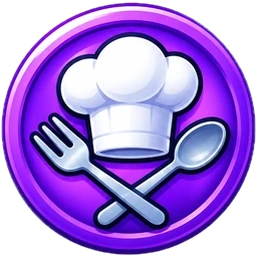
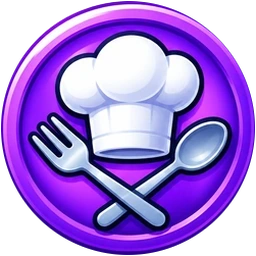
Badges : contour en cercle lisse, plus de bord haché ; badges non ronds remis d'origine (v167)
Claude-Session: https://claude.ai/code/session_015rMa72ZKTeXG5gb4Qifn48

Changed region(s): [[0.0, 0.0, 1.0, 1.0]]

diff --git a/js/app.js b/js/app.js
@@ -1,17 +1,17 @@
 // Y'a du peuple ? — logique de l'appli (carte, fiche, signalement, compte).
-import { api, DEMO } from './api.js?v=166';
+import { api, DEMO } from './api.js?v=167';
 import {
   MAP_STYLE_URL, DEFAULT_CENTER, DEFAULT_ZOOM, CONTACT_EMAIL, GOOGLE_CLIENT_ID,
   ROUTE, REFRESH_MS,
-} from './config.js?v=166';
+} from './config.js?v=167';
 import {
   LEVELS, LEVEL_INFO, WAIT_INFO, NO_INFO, levelInfo, describeStatus, mainStatus, brandShort,
   theoryLevelAt, parisNow, bestTimeToday, fmtHour, distanceM, fmtDistance, ago,
   levelFromPercent, gDay, dayHours, openDuringHour, bestTimeFromProfile, openState, hoursLines,
   estimateRoute, fmtDuration,
-} from './levels.js?v=166';
-import { airbnbize, addShieldImage } from './mapstyle.js?v=166';
-import { BRAND_PATHS } from './brands.js?v=166';
+} from './levels.js?v=167';
+import { airbnbize, addShieldImage } from './mapstyle.js?v=167';
+import { BRAND_PATHS } from './brands.js?v=167';
 
 // ---------------------------------------------------------------------------
 // État
@@ -1592,7 +1592,7 @@ async function renderAccount(tab = 'profil') {
     </div>
     <div class="referral">
       <div class="ref-head">
-        <img class="ref-ico" src="icons/badges/ref1.webp?v=166" alt="">
+        <img class="ref-ico" src="icons/badges/ref1.webp?v=167" alt="">
         <div class="grow"><div class="t">Parrainage</div><div class="s">Invite tes amis : vous gagnez tous les deux.</div></div>
         <span class="ref-count"><b>${p.referrals ?? 0}</b>${(p.referrals ?? 0) > 1 ? 'amis' : 'ami'}</span>
       </div>
@@ -1638,8 +1638,8 @@ const custom = {
   async load() { if (!this.list.length) this.list = await api.customizations() || []; return this.list; },
   find(kind, code) { return this.list.find((c) => c.kind === kind && c.code === code); },
   // Valeur = fichier image de l'appli (icons/avatars/…svg, icons/banners/…svg) ; ancien format emoji/dégradé toléré.
-  img(v, cls = '') { return /\.(webp|png|svg)$/.test(v || '') ? `<img src="${v}?v=166" alt="" class="${cls}">` : (v || ''); },
-  bg(v) { return /\.(webp|png|svg)$/.test(v || '') ? `url(${v}?v=166) center/cover` : v; },
+  img(v, cls = '') { return /\.(webp|png|svg)$/.test(v || '') ? `<img src="${v}?v=167" alt="" class="${cls}">` : (v || ''); },
+  bg(v) { return /\.(webp|png|svg)$/.test(v || '') ? `url(${v}?v=167) center/cover` : v; },
   avatar(code) { return this.img(this.find('avatar', code)?.value, 'avatar-img' + (String(code).startsWith('badge_') ? ' is-badge' : '')); },
   // Bannière = ruban qui porte le pseudo (rubans du 16/11/2026, outils/rubans_sheet2.py, découpés tels quels).
   // Pseudo : centré sur la bande de chaque ruban (hauteur mesurée) + contour de la couleur du ruban, foncée.
@@ -1647,7 +1647,7 @@ const custom = {
   ribbon(code, pseudo) {
     const b = this.find('banner', code) || this.list.find((c) => c.kind === 'banner');
     const [ty, tc] = this.RIB[b?.code] || ['46%', '#0B1F3A'];
-    return `<div class="ribbon" style="--ty:${ty};--tc:${tc}">${b ? `<img src="${b.value}?v=166" alt="">` : ''}<span>${esc(pseudo || '')}</span></div>`;
+    return `<div class="ribbon" style="--ty:${ty};--tc:${tc}">${b ? `<img src="${b.value}?v=167" alt="">` : ''}<span>${esc(pseudo || '')}</span></div>`;
   },
 };
 async function openCustomize() {
@@ -1659,7 +1659,7 @@ async function openCustomize() {
     const needBadge = c.requires_badge && !mine.has(c.requires_badge);
     const locked = lvl < c.min_level || needBadge;
     const on = (c.kind === 'avatar' ? p.avatar : p.banner) === c.code;
-    const inner = c.kind === 'avatar' ? `<span class="cz-emoji">${custom.img(c.value, 'cz-img')}</span>` : `<span class="cz-ribbon"><img src="${c.value}?v=166" alt=""></span>`;
+    const inner = c.kind === 'avatar' ? `<span class="cz-emoji">${custom.img(c.value, 'cz-img')}</span>` : `<span class="cz-ribbon"><img src="${c.value}?v=167" alt=""></span>`;
     const label = c.requires_badge ? (needBadge ? '🔒' : '✅') : `${locked ? '🔒 ' : ''}Niv. ${c.min_level}`;
     return `<button type="button" class="cz ${on ? 'on' : ''} ${locked ? 'locked' : ''}" data-kind="${c.kind}" data-code="${c.code}" ${locked ? 'disabled' : ''}>
       ${inner}<span class="cz-lock">${esc(label)}</span></button>`;
@@ -1739,7 +1739,7 @@ const BADGE_ART = new Set(['v1', 'v10', 'v50', 'v100', 'v250', 'v500', 'drive10'
 // Badges en .svg : plus aucun (outils/badges_sheet.py et badges_sheet2.py découpent les images ChatGPT).
 const BADGE_SVG = new Set(); // tous les badges sont maintenant des images ChatGPT (.webp)
 const badgeImg = (code) => BADGE_ART.has(code)
-  ? `<img src="icons/badges/${code}.${BADGE_SVG.has(code) ? 'svg' : 'webp'}?v=166" alt="" class="badge-img">`
+  ? `<img src="icons/badges/${code}.${BADGE_SVG.has(code) ? 'svg' : 'webp'}?v=167" alt="" class="badge-img">`
   : `<span class="badge-emoji">${BADGE_ICONS[code] || '🏅'}</span>`;
 async function badgesHtml() {
   const rows = await api.badgesProgress() || [];

diff --git a/index.html b/index.html
@@ -21,13 +21,13 @@
   <link rel="preconnect" href="https://tiles.openfreemap.org" crossorigin>
   <link rel="preconnect" href="https://ygekcpnsjbbdgtmlxdce.supabase.co" crossorigin>
   <link rel="manifest" href="manifest.webmanifest">
-  <link rel="icon" href="icons/fav-64.png?v=166" type="image/png" sizes="64x64">
-  <link rel="icon" href="icons/fav-192.png?v=166" type="image/png" sizes="192x192">
-  <link rel="apple-touch-icon" href="icons/icon-192.png?v=166">
+  <link rel="icon" href="icons/fav-64.png?v=167" type="image/png" sizes="64x64">
+  <link rel="icon" href="icons/fav-192.png?v=167" type="image/png" sizes="192x192">
+  <link rel="apple-touch-icon" href="icons/icon-192.png?v=167">
   <meta name="apple-mobile-web-app-capable" content="yes">
   <meta name="apple-mobile-web-app-status-bar-style" content="default">
   <link rel="stylesheet" href="vendor/maplibre-gl.css">
-  <link rel="stylesheet" href="css/app.css?v=166">
+  <link rel="stylesheet" href="css/app.css?v=167">
 </head>
 <body class="intro">
   <div id="map" aria-label="Carte des restaurants"></div>
@@ -70,7 +70,7 @@
   <section class="welcome" id="welcome" hidden>
     <div class="welcome-inner">
       <div class="welcome-logo">
-        <img src="icons/icon-512.png?v=166" alt="" width="110" height="110" style="border-radius:26px">
+        <img src="icons/icon-512.png?v=167" alt="" width="110" height="110" style="border-radius:26px">
       </div>
       <h1>Y'a du peuple&nbsp;?</h1>
       <p class="slogan" id="slogan">Venu pour manger, pas pour poireauter.</p>
@@ -89,6 +89,6 @@
 
   <script src="vendor/maplibre-gl.js"></script>
   <script src="vendor/supabase.js"></script>
-  <script type="module" src="js/app.js?v=166"></script>
+  <script type="module" src="js/app.js?v=167"></script>
 </body>
 </html>

diff --git a/demo.html b/demo.html
@@ -7,12 +7,12 @@
   <meta name="description" content="L'affluence des fast-foods en direct, salle et Drive.">
   <meta name="theme-color" content="#0B1F3A">
   <link rel="manifest" href="manifest.webmanifest">
-  <link rel="icon" href="icons/fav-64.png?v=166" type="image/png">
-  <link rel="apple-touch-icon" href="icons/icon-192.png?v=166">
+  <link rel="icon" href="icons/fav-64.png?v=167" type="image/png">
+  <link rel="apple-touch-icon" href="icons/icon-192.png?v=167">
   <meta name="apple-mobile-web-app-capable" content="yes">
   <meta name="apple-mobile-web-app-status-bar-style" content="default">
   <link rel="stylesheet" href="vendor/maplibre-gl.css">
-  <link rel="stylesheet" href="css/app.css?v=166">
+  <link rel="stylesheet" href="css/app.css?v=167">
 </head>
 <body class="intro">
   <div id="map" aria-label="Carte des restaurants"></div>
@@ -55,7 +55,7 @@
   <section class="welcome" id="welcome" hidden>
     <div class="welcome-inner">
       <div class="welcome-logo">
-        <img src="icons/icon-512.png?v=166" alt="" width="110" height="110" style="border-radius:26px">
+        <img src="icons/icon-512.png?v=167" alt="" width="110" height="110" style="border-radius:26px">
       </div>
       <h1>Y'a du peuple&nbsp;?</h1>
       <p class="slogan" id="slogan">Venu pour manger, pas pour poireauter.</p>
@@ -75,6 +75,6 @@
   <script>window.YDP_DEMO = true;</script>
   <script src="vendor/maplibre-gl.js"></script>
   <script src="vendor/supabase.js"></script>
-  <script type="module" src="js/app.js?v=166"></script>
+  <script type="module" src="js/app.js?v=167"></script>
 </body>
 </html>

diff --git a/affiche.html b/affiche.html
@@ -68,9 +68,9 @@
     <div class="url">yadupeuple.github.io · gratuit, sans téléchargement</div>
   </div>
 
-  <script src="vendor/qrcode.js?v=166"></script>
+  <script src="vendor/qrcode.js?v=167"></script>
   <script type="module">
-    import { SUPABASE_URL, SUPABASE_PUBLISHABLE_KEY } from './js/config.js?v=166';
+    import { SUPABASE_URL, SUPABASE_PUBLISHABLE_KEY } from './js/config.js?v=167';
     const SITE = 'https://yadupeuple.github.io/';
     const pick = document.getElementById('pick');
     const params = new URLSearchParams(location.search);

diff --git a/js/api.js b/js/api.js
@@ -1,6 +1,6 @@
 // Accès aux données : Supabase en vrai, ou un faux serveur en mode démo (?demo).
-import { SUPABASE_URL, SUPABASE_PUBLISHABLE_KEY } from './config.js?v=166';
-import { createDemoApi } from './demo.js?v=166';
+import { SUPABASE_URL, SUPABASE_PUBLISHABLE_KEY } from './config.js?v=167';
+import { createDemoApi } from './demo.js?v=167';
 
 // Charge une table par pages de 1000 : 5 pages en parallèle, puis la suite si besoin.
 async function pagesInParallel(page, first = 5) {

diff --git a/js/demo.js b/js/demo.js
@@ -1,6 +1,6 @@
 // Faux serveur pour le mode démo (?demo) : aucune donnée réelle n'est lue ni écrite.
-import { DEMO_ESTABLISHMENTS } from './demo-data.js?v=166';
-import { distanceM, LEVELS, theoryLevelAt, parisNow } from './levels.js?v=166';
+import { DEMO_ESTABLISHMENTS } from './demo-data.js?v=167';
+import { distanceM, LEVELS, theoryLevelAt, parisNow } from './levels.js?v=167';
 
 const wait = (ms = 150) => new Promise((r) => setTimeout(r, ms));
 

diff --git a/outils/badge_sans_ombre.py b/outils/badge_sans_ombre.py
@@ -1,36 +1,32 @@
-"""Retire l'ombre blanche / grise claire autour des badges déjà découpés (icons/badges/*.webp), puis recentre.
-Originaux gardés dans outils/src/badges_avant_ombre/. Usage : python3 outils/badge_sans_ombre.py"""
-import glob, os
+"""Badges ronds : contour refait en cercle parfait et lisse (l'ombre blanche disparaît, aucun bord haché).
+Badges qui ne sont pas ronds (laurier, ruban, couronne…) : image d'origine gardée telle quelle.
+Originaux : outils/src/badges_avant_ombre/. Usage : python3 outils/badge_sans_ombre.py"""
+import glob, os, shutil
 import numpy as np
-from PIL import Image, ImageFilter
+from PIL import Image
 from scipy import ndimage
+NOT_ROUND = {'regulier8', 'regulier12', 'testeur', 'tour_zone10'}  # dessins qui dépassent du rond
 for f in sorted(glob.glob('outils/src/badges_avant_ombre/*.webp')):
     code = os.path.basename(f)[:-5]
-    im = Image.open(f).convert('RGBA')
-    a = np.asarray(im).astype(int)
+    im = Image.open(f).convert('RGBA'); a = np.asarray(im).astype(float)
     rgb, al = a[..., :3], a[..., 3]
-    mx, mn = rgb.max(axis=2), rgb.min(axis=2)
-    solid = al > 40
-    pale = ((mx - mn) <= 55) & (mn >= 150) | (al < 200)   # blanc / gris clair, ou bord à moitié transparent
-    big = solid.copy()
-    for _ in range(14):
-        border = big & ~ndimage.binary_erosion(big)
-        peel = border & pale
-        if not peel.any(): break
-        big &= ~peel
-    big = ndimage.binary_opening(big, iterations=2)
-    lab, k = ndimage.label(big)
-    big = lab == (np.argmax(ndimage.sum(big, lab, range(1, k + 1))) + 1)
-    big = ndimage.binary_fill_holes(big)
-    ys, xs = np.where(big)
+    mx, mn = rgb.max(2), rgb.min(2)
+    core = (al > 200) & ~(((mx - mn) <= 55) & (mn >= 150))   # pixels colorés (pas l'ombre claire)
+    core = ndimage.binary_fill_holes(ndimage.binary_opening(core, iterations=2))
+    ys, xs = np.where(core)
     cx, cy = (xs.min() + xs.max()) / 2, (ys.min() + ys.max()) / 2
-    r = max(xs.max() - xs.min(), ys.max() - ys.min()) / 2 + 2
-    alpha = Image.fromarray((big * 255).astype('uint8')).filter(ImageFilter.GaussianBlur(0.9))
-    alpha = Image.fromarray(np.minimum(np.asarray(alpha), al).astype('uint8'))
-    rgbim = im.convert('RGB')
-    out = rgbim.convert('RGBA'); out.putalpha(alpha)
-    # Couleur des pixels de bord : reprise de l'intérieur (pas de liseré clair)
-    box = (cx - r, cy - r, cx + r, cy + r)
-    out = out.crop(tuple(round(v) for v in box)).resize((256, 256), Image.LANCZOS)
-    out.save(f'icons/badges/{code}.webp', quality=92, method=6)
-    print(code, round(r), int(al.sum()/255) - int(big.sum()), 'px retirés')
+    r = (xs.max() - xs.min() + ys.max() - ys.min()) / 4
+    H, W = al.shape; yy, xx = np.mgrid[0:H, 0:W]; rr = np.hypot(xx - cx + 0.5, yy - cy + 0.5)
+    disc = rr < r
+    fill = (core & disc).sum() / disc.sum(); outside = (core & ~disc).sum() / disc.sum()
+    if fill < 0.96 or outside > 0.03 or code in NOT_ROUND:
+        shutil.copy(f, f'icons/badges/{code}.webp'); print(code, 'pas rond → original', round(fill, 3), round(outside, 3)); continue
+    R = r - 1.0                                   # juste à l'intérieur du bord coloré
+    alpha = np.clip(R - rr + 0.5, 0, 1) * 255     # bord lisse (anticrénelage d'un pixel)
+    out = np.dstack([rgb, alpha])
+    # recadrage centré sur le cercle
+    pad = 1
+    box = (round(cx - R - pad), round(cy - R - pad), round(cx + R + pad), round(cy + R + pad))
+    o = Image.fromarray(out.clip(0, 255).astype('uint8'), 'RGBA').crop(box).resize((256, 256), Image.LANCZOS)
+    o.save(f'icons/badges/{code}.webp', quality=94, method=6)
+    print(code, 'rond', round(fill, 3), round(outside, 3))

diff --git a/CLAUDE.md b/CLAUDE.md
@@ -152,7 +152,7 @@ Erreurs de submit_report : `{ok:false, error, message}` — afficher `message` t
   Animation « Nouveau badge débloqué ! » (checkNewBadges dans refreshProfile : compare profile.badges à localStorage ydp_seen_badges_<id> ;
   1re fois sur un téléphone = rien ; plusieurs badges → l'un après l'autre, bouton « Suivant (encore N) »).
 - Vitesse de la carte (17/11/2026, v163) : restos + horaires chargés par 5 pages en parallèle (pagesInParallel dans api.js) et gardés 24 h sur le téléphone (localStorage ydp_est_cache_v1, mis à jour en arrière-plan) ; fadeDuration 0, cache de tuiles 400 ; plongée d'entrée raccourcie (1,9 s) ; groupes de pastilles réutilisés pendant le zoom ; preconnect vers OpenFreeMap et Supabase.
-- Images (17/11/2026, v166) : ombre blanche autour des badges retirée (outils/badge_sans_ombre.py, originaux outils/src/badges_avant_ombre/) ; dessins des 30 avatars recentrés dans leur bulle (outils/avatar_centrer.py, dessin seulement déplacé, bulle reconstituée ; originaux outils/src/avatars_avant_centrage/).
+- Images (17/11/2026, v166) : badges ronds détourés en cercle parfait et lisse, v167 (outils/badge_sans_ombre.py ; regulier8, regulier12, testeur, tour_zone10 non ronds = images d'origine ; originaux outils/src/badges_avant_ombre/) ; dessins des 30 avatars recentrés dans leur bulle (outils/avatar_centrer.py, dessin seulement déplacé, bulle reconstituée ; originaux outils/src/avatars_avant_centrage/).
 - Signalement (v160-162) : petit lexique « 💡 Comment choisir ? » repliable (fermé par défaut) sous les 4 choix (LEXIQUE dans app.js, textes salle / Drive) ; le choix fait ressort, les autres s'estompent.
 
 ## Objectif et croissance (dit par Alexis le 15/11/2026)
